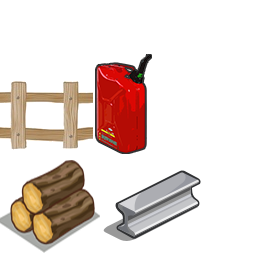
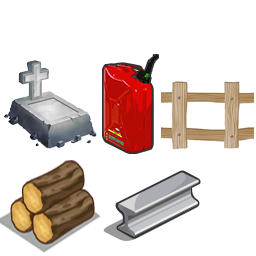
added grave image

Changed region(s): [[0.0, 0.1875, 1.0, 0.625]]

diff --git a/Assets/Scripts/Character/PlayerObject.cs b/Assets/Scripts/Character/PlayerObject.cs
@@ -22,7 +22,6 @@ public class PlayerObject : AbstractCharacterObject {
 		}
 		injuredChar.IsDead = true;
 
-		Debug.LogError ("*******1: " + other);
 		UiController.Instance.OpenDialogPanel (injuredChar.Name + " has Injuered!", () => {
 			GameManager.Instance.PauseGame = false;
 			//全員おっちんだらホームへ。
